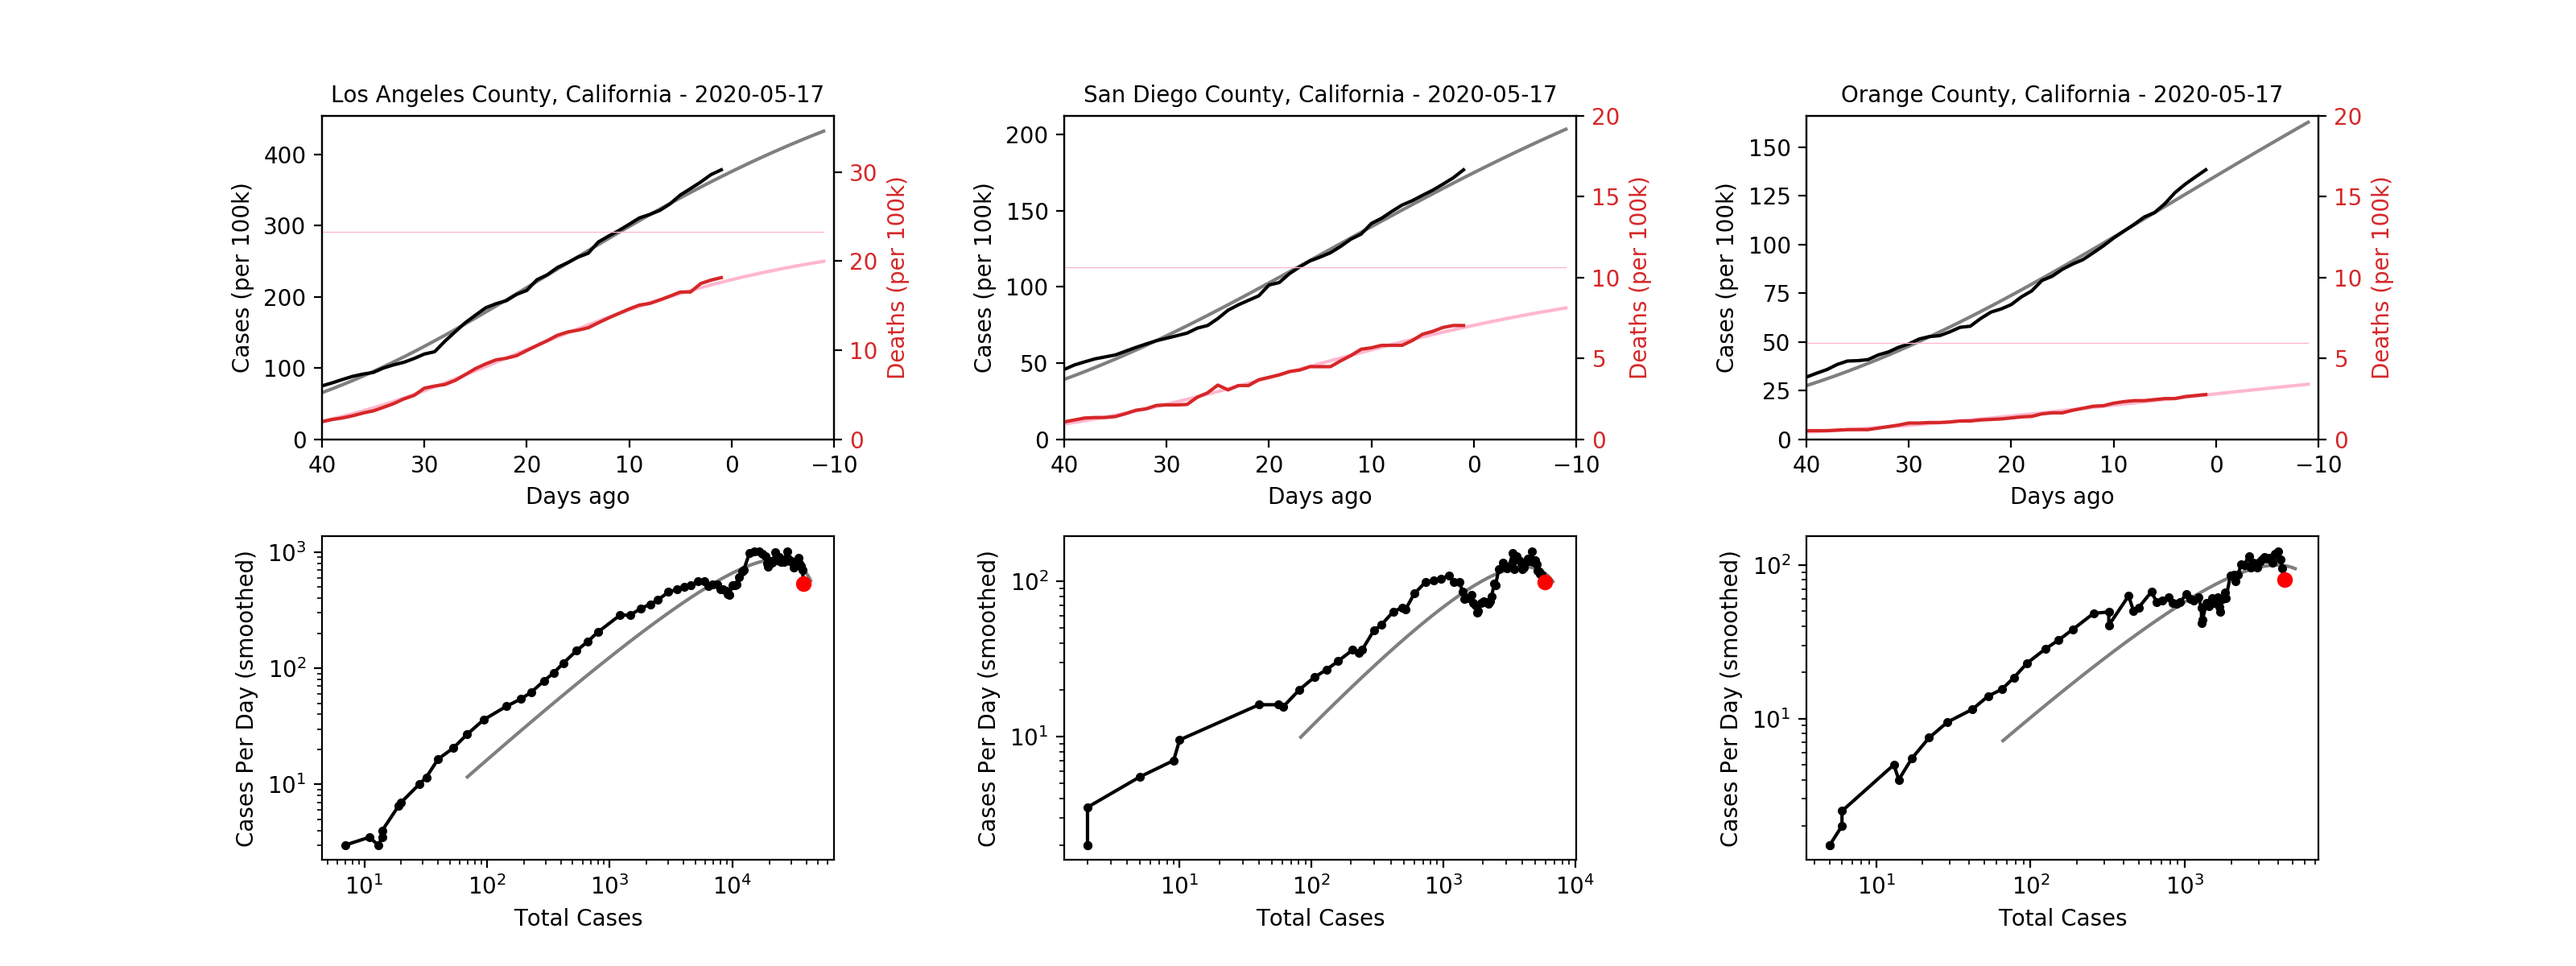
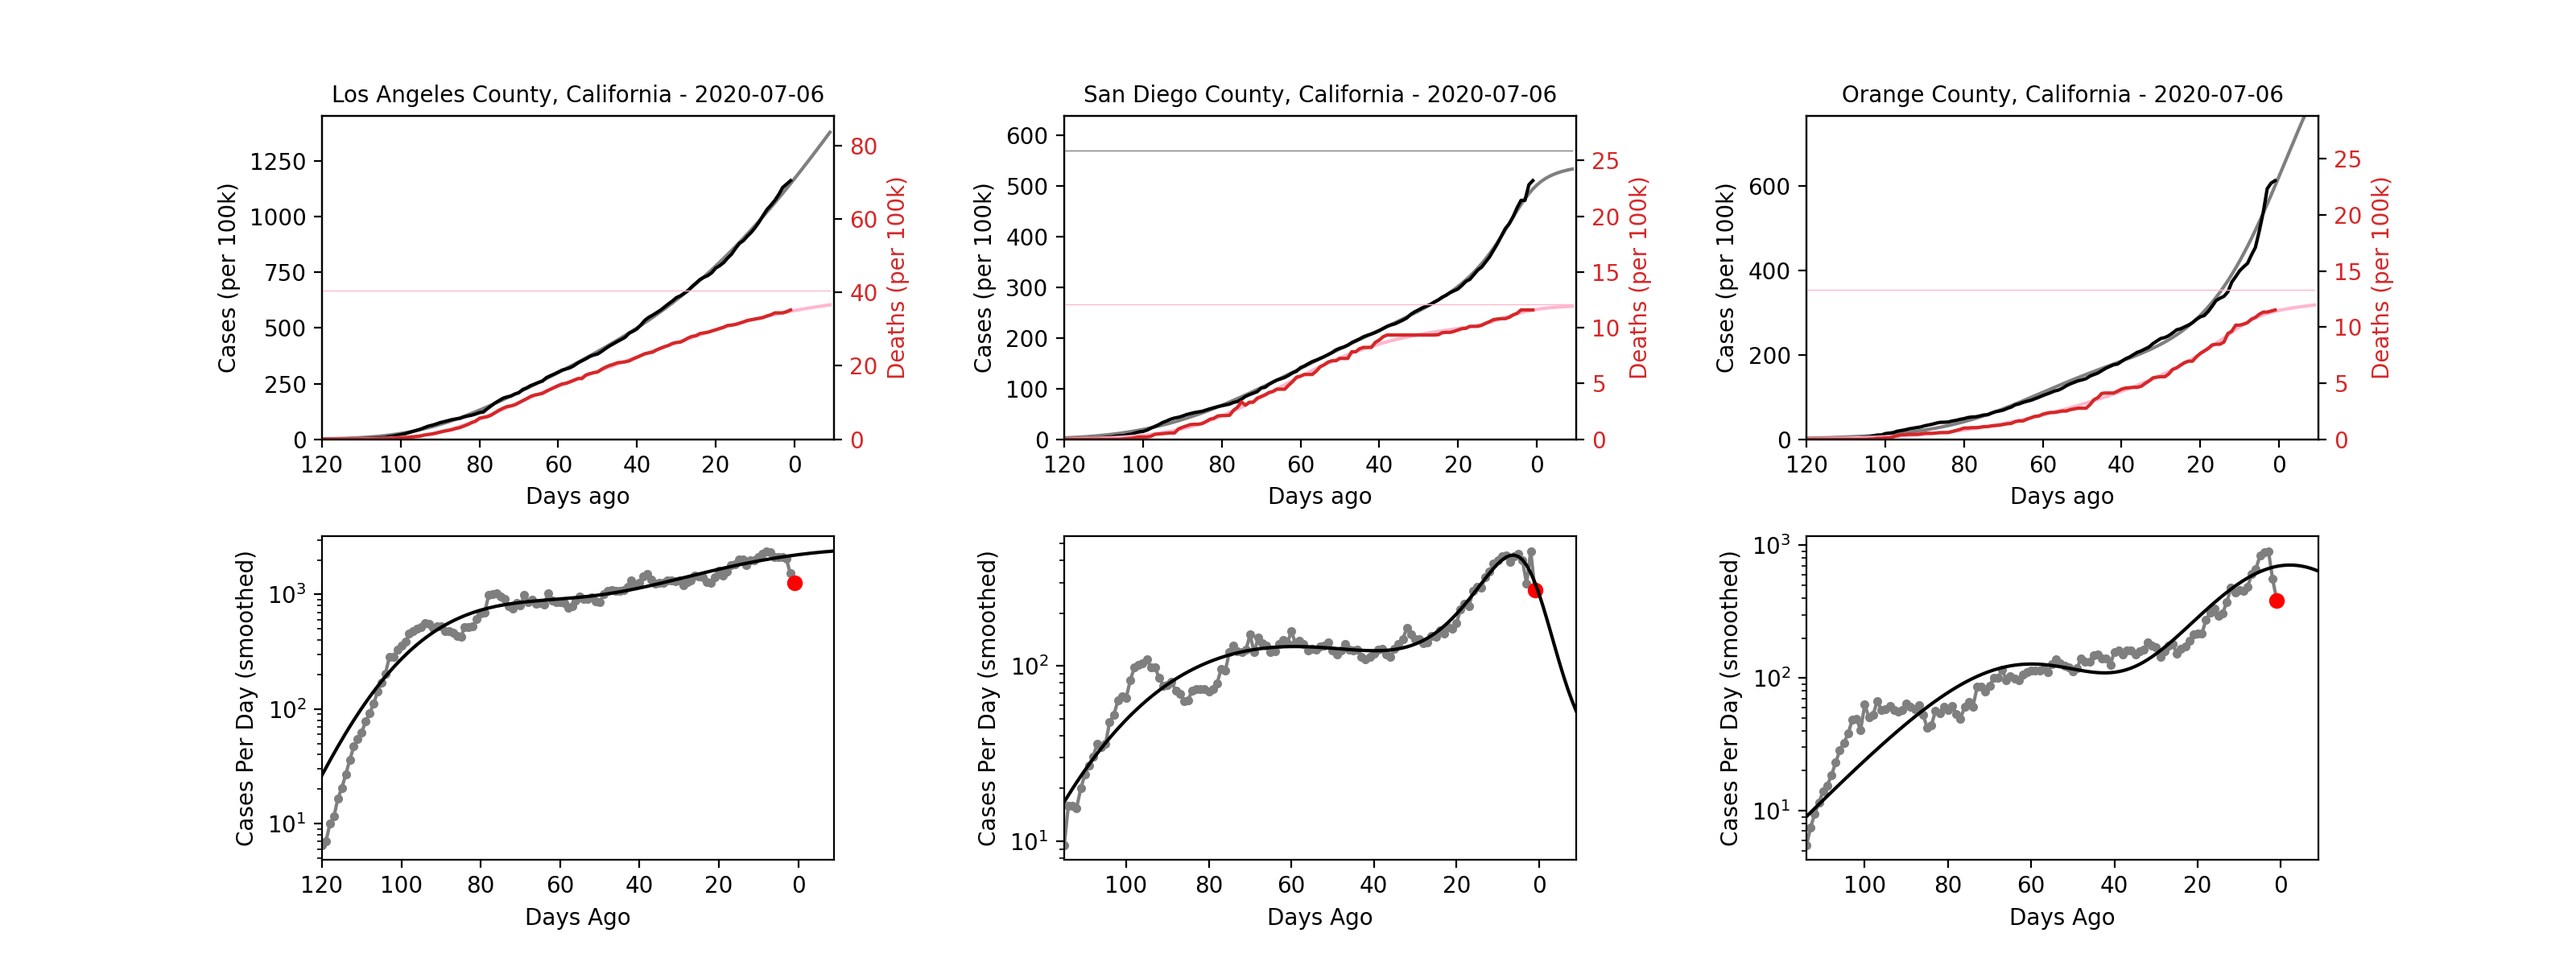
update data; update graphs, extrapolate for 10 days

diff --git a/analyze_data.py b/analyze_data.py
@@ -184,7 +184,7 @@ def fit_sigmoid_sum(y0, n_ext, n_sigmoids):
     w0[-10:] = 2
     alpha = 30 * np.polyfit(np.arange(7), y0[-7:], 1)[0] / np.max(y0)
     assert(n_sigmoids <= 2)
-    a0 = np.array([(1 - alpha) * 1.5, 1.5, 0.3, 1, alpha * 1.5, 1.5, 1, 1])
+    a0 = np.array([(1 - alpha) * 1.5, 1.5, 0.2, 1, alpha * 1.5, 1.5, 0.8, 1])
     if n_sigmoids == 1:
         a0 = a0[:4]
     a1 = fit_sigmoid_sum_wls_gn(a0, t0, w0, y0, 200)
@@ -209,7 +209,7 @@ def est_growth_rate(y):
 def plot_cd_county(ax, cd, county, state, date, pop, n_sigmoids):
     # number of days to plot and extrapolate
     n_days = cd.shape[0]
-    n_days_ext = 20
+    n_days_ext = 10
     n_days_plot = 120
 
     # normalize by population (cases/deaths per 100,000)
@@ -252,7 +252,7 @@ def plot_cd_county(ax, cd, county, state, date, pop, n_sigmoids):
 def plot_nc_county(ax, cd, county, state, date, pop, n_sigmoids):
     # number of days to plot and extrapolate
     n_days = cd.shape[0]
-    n_days_ext = 20
+    n_days_ext = 10
     c0 = cd[:, 0]
     c0s = smooth_iir_1(c0)
 
@@ -264,22 +264,26 @@ def plot_nc_county(ax, cd, county, state, date, pop, n_sigmoids):
     # get new cases per day
     dc0 = np.diff(c0s)
     dc1 = np.diff(c1)
-    c0 = c0[1:]
-    c1 = c1[1:]
+    t0 = t0[1:]
+    t1 = t1[1:]
 
     # find cutoff
     idx = max(np.argmax(dc0 > 5), np.argmax(c0 > 5))
     dc0 = dc0[idx:]
     dc1 = dc1[idx:]
-    c0 = c0[idx:]
-    c1 = c1[idx:]
+    t0 = t0[idx:]
+    t1 = t1[idx:]
 
     # plot cases
-    ax.loglog(c0, dc0, color='tab:gray', marker='.')
-    ax.loglog(c0[-1], dc0[-1], color='r', marker='o')
-    ax.loglog(c1, dc1, color='k')
+    ax.plot(t0, dc0, color='tab:gray', marker='.')
+    ax.plot(t0[-1], dc0[-1], color='r', marker='o')
+    ax.plot(t1, dc1, color='k')
+    x0 = max(np.max(t0), np.max(t1))
+    x1 = min(np.min(t0), np.min(t1))
+    ax.set_xlim(x0, x1)
+    ax.set_yscale('log')
     ax.set_ylabel('Cases Per Day (smoothed)')
-    ax.set_xlabel('Total Cases')
+    ax.set_xlabel('Days Ago')
 
 
 # plot cases/deaths over time and new cases versus total cases
@@ -339,7 +343,6 @@ def plot_nd_states():
 
 
 if __name__ == "__main__":
-    sigmoid_sum_jac_test()
-    plot_county_list([('Santa Clara', 'California'), ('Los Angeles', 'California'), ('Broward', 'Florida')])
+    plot_county_list([('Los Angeles', 'California'), ('San Diego', 'California'), ('Orange', 'California')])
     plot_nd_states()
     plt.show()
